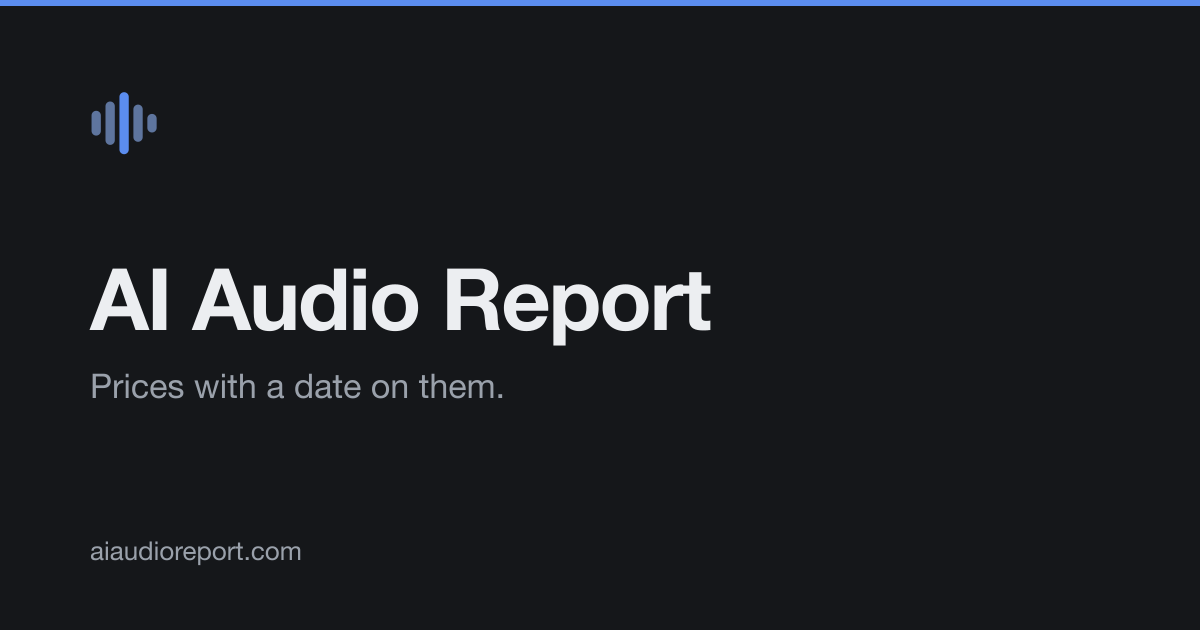
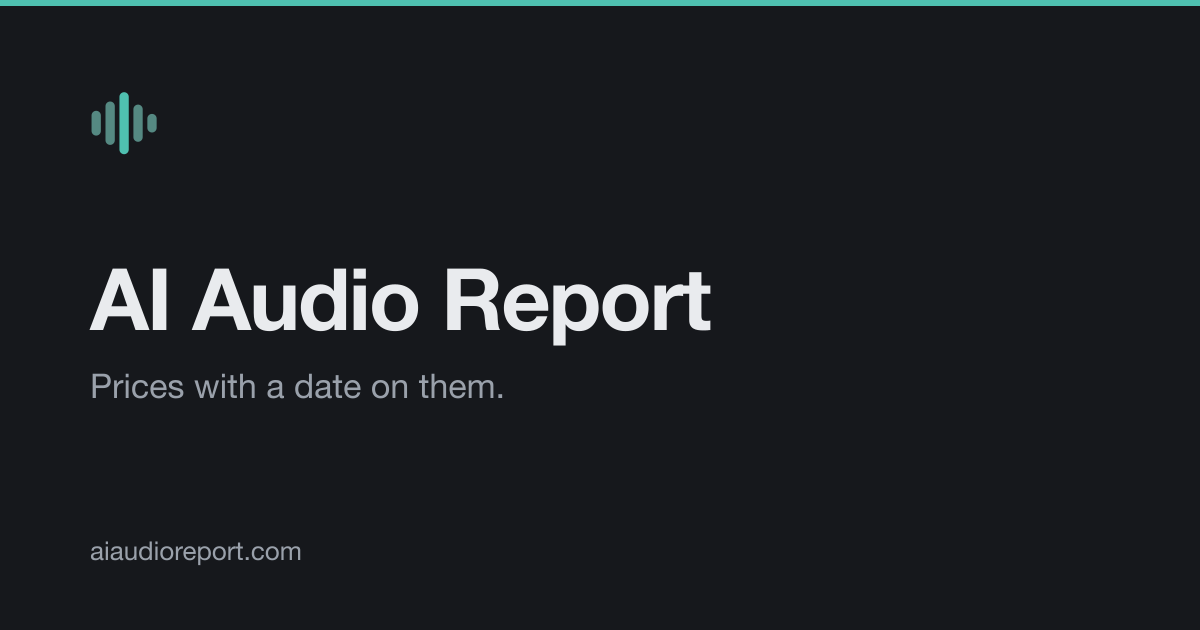
Article header marks, per-article social cards, newsletter (off)
Three things, two live and one deliberately inert.

Header marks
Each article now opens with a generated level-meter mark, derived from
its own slug so it is unique per article and identical on every build.
Verified: 15 articles, 15 distinct shapes, byte-identical across two
builds.

Not a photograph, on purpose. A stock studio image would be decoration
that says nothing true about the piece, and it would need licensing.
This costs nothing and claims nothing.

Two constraints it respects. It is unboxed, because a filled bordered
box means "data object" on this site and this must not be mistaken for
one of the figures. And it is monochrome apart from the single accent
bar borrowed from the logo, because colour already carries verdict
meaning here and giving banners their own palette would dilute that.

Social cards
Every article now has its own 1200x630 card carrying its headline and
its price-check date. Previously every shared link, whatever it pointed
at, produced the same generic image.

While rebuilding the generator I found the existing card was still
drawn in #5b8def, a blue left over from before the palette moved to
teal, so every share was carrying the old brand colour. Fixed.

Checked that no headline is silently truncated by the wrap: all 15 fit
in three lines with nothing dropped.

Newsletter, built and switched off
Component, styling, consent wording and privacy text are all in place
behind NEWSLETTER_ENABLED, which is false. It renders nothing unless
[…]

Changed region(s): [[0.0, 0.0, 1.0, 0.0302], [0.0617, 0.1508, 0.1542, 0.2413]]

diff --git a/src/styles/global.css b/src/styles/global.css
@@ -241,6 +241,43 @@ img { max-width: 100%; height: auto; }
 .pick p { margin: 0; color: var(--ink-2); }
 .group-blurb { margin: .55rem 0 .2rem; }
 
+/* Generated article header mark. Deliberately NOT boxed: a filled bordered
+   box means "data object" here, and this is ornament. Sits on the page
+   background with a hairline under it so it reads as a masthead rule rather
+   than as a chart. */
+.banner { margin: .25rem 0 2rem; padding-bottom: .9rem;
+  border-bottom: 1px solid var(--line); }
+.banner svg { display: block; width: 100%; height: 56px; }
+.banner .bar-base { fill: var(--line-2); }
+.banner .bar-mid { fill: var(--ink-3); }
+.banner .bar-accent { fill: var(--accent); }
+@media (max-width: 34rem) { .banner svg { height: 40px; } }
+@media (prefers-reduced-motion: no-preference) { .banner svg { transition: none; } }
+@media print { .banner { display: none; } }
+
+/* Newsletter sign-up. Framed by rules rather than a filled card, for the same
+   reason as the banner: filled boxes are reserved for data. */
+.signup { margin: 3rem 0 0; padding: 1.5rem 0 0; border-top: 2px solid var(--ink); }
+.signup--inline { margin: 2.5rem 0; padding: 1.4rem 0; border-bottom: 1px solid var(--line); }
+.signup-h { margin: 0 0 .5rem; font-size: 1.25rem; font-weight: 700; letter-spacing: -0.014em; }
+.signup-h::before { content: none; }
+.signup-p { margin: 0 0 1rem; color: var(--ink-2); font-size: .9688rem; line-height: 1.6; }
+.signup-label { position: absolute; width: 1px; height: 1px; overflow: hidden;
+  clip: rect(0 0 0 0); white-space: nowrap; }
+.signup-row { display: flex; gap: .5rem; flex-wrap: wrap; }
+.signup-row input { flex: 1 1 15rem; min-width: 0; font: inherit; font-size: 1rem;
+  padding: .6rem .8rem; color: var(--ink); background: var(--bg);
+  border: 1px solid var(--line-2); border-radius: 5px; }
+.signup-row input:focus-visible { outline: 2px solid var(--accent); outline-offset: 1px;
+  border-color: var(--accent); }
+.signup-row button { font: inherit; font-size: 1rem; font-weight: 600; cursor: pointer;
+  padding: .6rem 1.3rem; border-radius: 5px; border: 1px solid var(--accent);
+  background: var(--accent); color: #fff; }
+.signup-row button:hover { filter: brightness(1.08); }
+@media (prefers-color-scheme: dark) { :root:not([data-theme="light"]) .signup-row button { color: #15171a; } }
+:root[data-theme="dark"] .signup-row button { color: #15171a; }
+.signup-small { margin: .8rem 0 0; font-size: .8125rem; line-height: 1.55; color: var(--ink-3); }
+
 /* Advertising slot. Labelled, set apart by rules rather than a box, and given
    a minimum height so a loading ad does not shove the article down the page.
    Nothing renders at all while ADS_ENABLED is false, so this costs a reader

diff --git a/src/consts.ts b/src/consts.ts
@@ -43,6 +43,25 @@ export const AD_SLOTS = {
 /** True once a GA4 measurement ID is actually configured. */
 export const ANALYTICS_CONFIGURED = Boolean(import.meta.env.PUBLIC_GA4_ID ?? '');
 
+/**
+ * Newsletter. Renders nothing at all while NEWSLETTER_ENABLED is false, and
+ * the legal pages describe the site as operating no list, which is then true.
+ *
+ * DO NOT flip this until ALL of these are done, because turning it on starts
+ * collecting personal data:
+ *  1. An account exists with a provider and NEWSLETTER_ACTION holds its real
+ *     form endpoint. With an empty action a form would post to this page.
+ *  2. That provider's data processing agreement has been read and accepted.
+ *     The audience here is largely European, so the provider must be able to
+ *     act as a processor under the GDPR.
+ *  3. Double opt-in is switched on in the provider, which is the safe default
+ *     for EU consent.
+ * The privacy and cookies pages update themselves from this flag, so the
+ * wording cannot be left behind.
+ */
+export const NEWSLETTER_ENABLED = false;
+export const NEWSLETTER_ACTION = '';
+
 /** Phase 2 only. No affiliate links exist on the site while this is false. */
 export const AFFILIATES_ENABLED = false;
 
